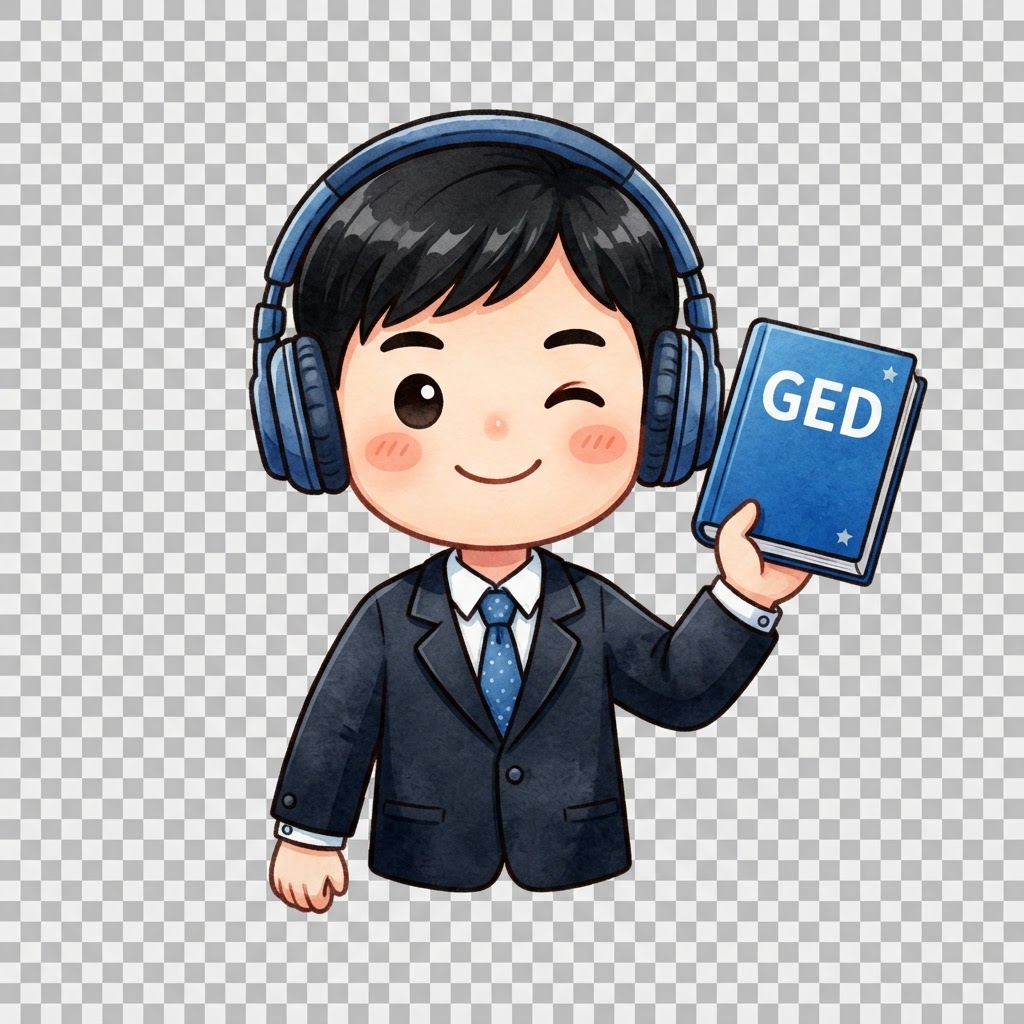
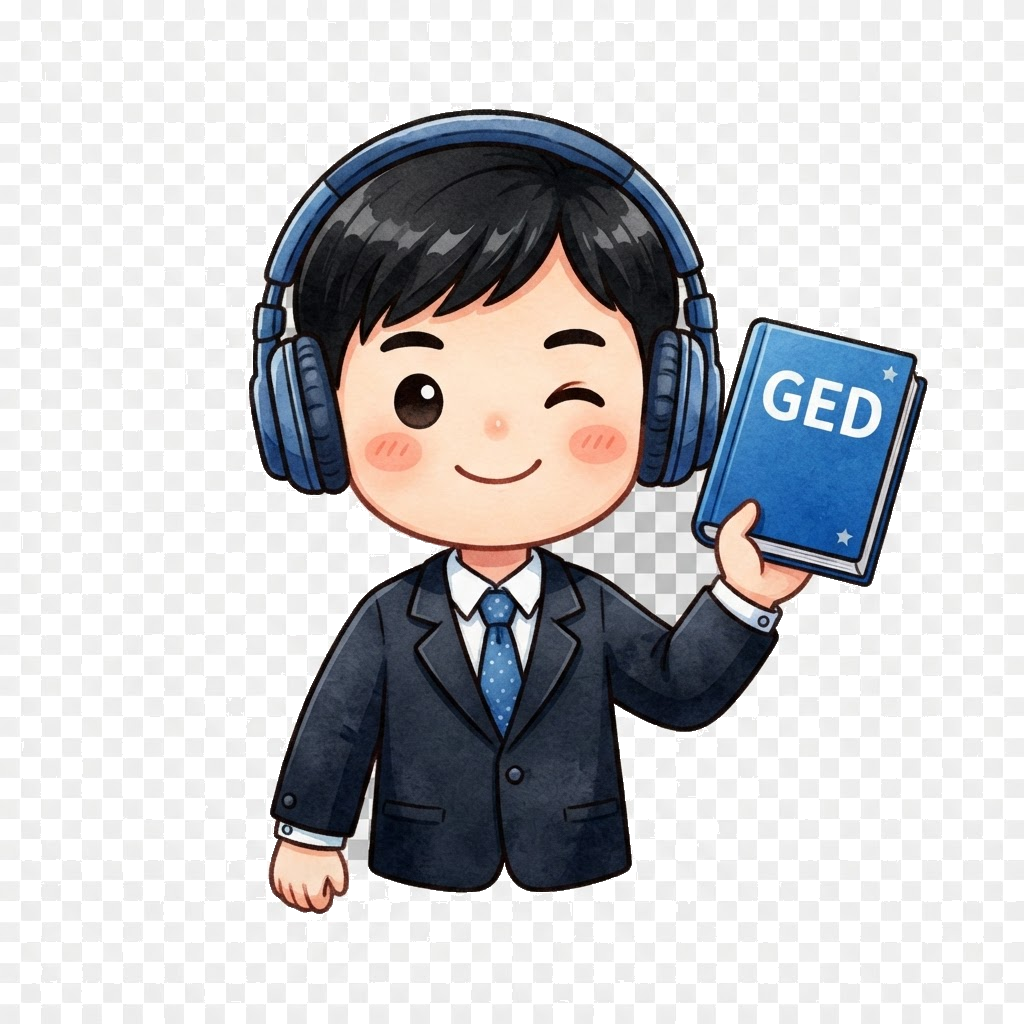
fix: remove checkerboard background from mascot PNGs and bypass image optimization
- All 4 mascot PNGs (student, tutor, assessment, idea) were RGB with a
  baked-in gray checkerboard background from the image editor export.
  Converted to RGBA using BFS flood-fill from all 4 edges to detect and
  remove the background while preserving mascot character pixels.
- Add `unoptimized` prop to Mascot component so Next.js image pipeline
  does not strip the alpha channel when serving these PNGs.

diff --git a/src/components/illustrations/Mascot.tsx b/src/components/illustrations/Mascot.tsx
@@ -34,6 +34,7 @@ export default function Mascot({
       width={size}
       height={size}
       priority={priority}
+      unoptimized
       className={className}
     />
   );
